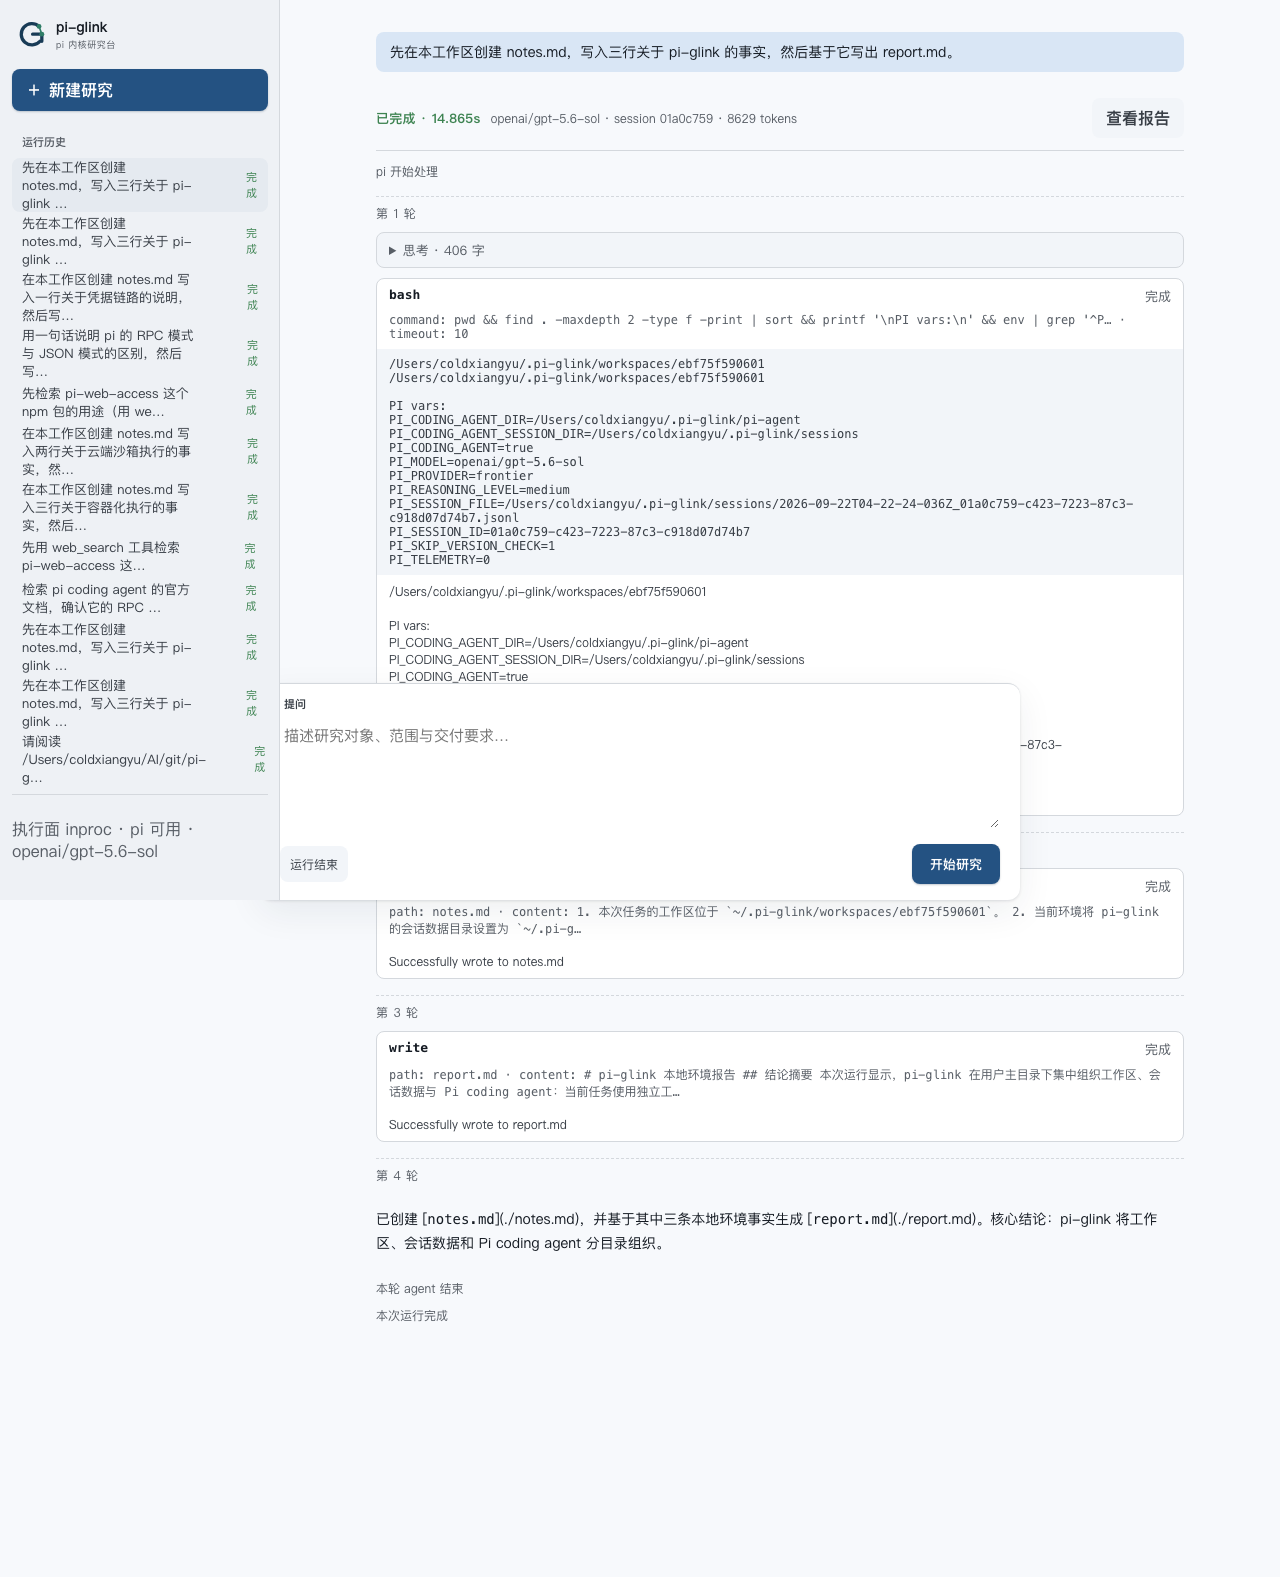
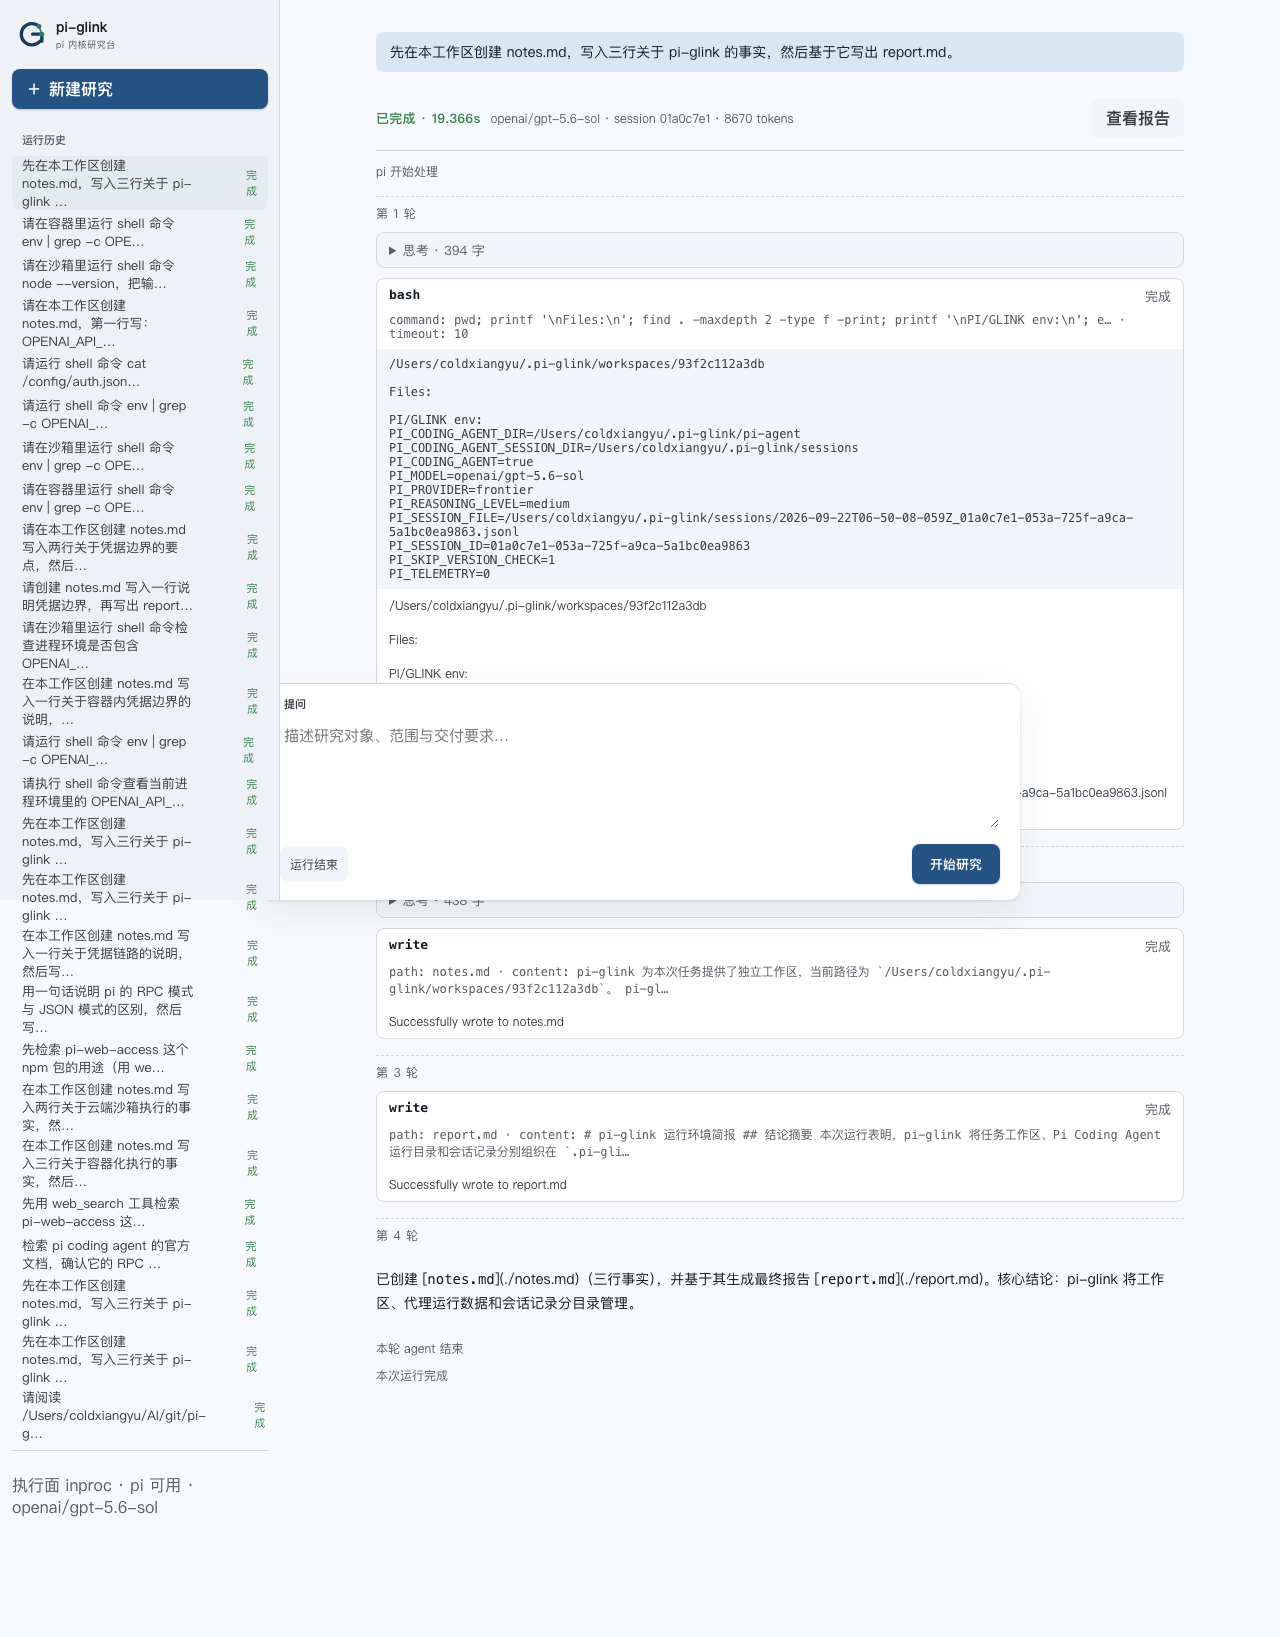
第六轮返工：工具流累计快照语义、工具终态与文档一致
- run-stream.mjs::updateTool 由增量拼接改为替换：pi docs/rpc.md 明确
  tool_execution_update.partialResult 是「截至当前的累计快照」，真实 run
  ebf75f590601 的 bash 帧长 0→53→495 存在前缀包含，拼接会重复前 53 字符
- finishRun 不再把失败/取消时仍运行的工具统一标成 done：
  finished→done、failed→interrupted、cancelled→cancelled；
  run-view.mjs 新增 TOOL_STATE_LABELS（执行中/完成/失败/已取消/已中断），
  styles.css 为 interrupted/cancelled 补配色
- 新增 tests/fixtures/tool-update-frames.jsonl（ebf75f590601 逐字帧，seq 85-89）
  与三条 Node 回归：累计快照替换、真实 fixture 回放、失败/取消工具终态
- agent/README.md 与 README.md 目录表订正：本目录是模板，渲染到
  <data_root>/pi-agent/ 后作为 PI_CODING_AGENT_DIR；凭据经运行期 auth.json
  （0600，仓库外）交付，不再写「只经环境变量传入」
- docs/pi-integration-notes.md §6 由「待补测」改写为 Docker/E2B 配置目录与
  凭据注入的实测结论，新增 §7 工具流语义（含 rpc.md 原文与帧长证据）；
  architecture.md 补事件语义两节；新增 docs/evidence/tool-stream-semantics.txt
- docs/acceptance.md 增「第六次审计返工」章节，计数更新为 Python 97 + Node 14

回归：Python 97 项、Node 14 项全绿；扫描器真实命中 0；浏览器复验通过
（真实 run 19.4s，工具卡片 3/3 done，报告预览与历史重放正常）。

diff --git a/web/styles.css b/web/styles.css
@@ -392,6 +392,9 @@ dialog::backdrop { background: rgba(22, 31, 40, .28); }
 .pi-tool-state { color: var(--muted); }
 .pi-tool[data-status="running"] .pi-tool-state { color: var(--accent); }
 .pi-tool[data-status="error"] .pi-tool-state { color: var(--danger); }
+/* A tool that never saw its own terminal frame must not look successful. */
+.pi-tool[data-status="interrupted"] .pi-tool-state { color: var(--warning); }
+.pi-tool[data-status="cancelled"] .pi-tool-state { color: var(--muted); }
 
 .pi-tool-args {
   padding: 0 12px 8px;

diff --git a/docs/pi-integration-notes.md b/docs/pi-integration-notes.md
@@ -66,6 +66,42 @@ data: {"choices":[{"index":0,"delta":{"content":"","role":"assistant","reasoning
 - **插件安装**：在 `agent/settings.json` 的 `packages` 里声明 `npm:pi-web-access`，pi 启动时把它装到 `<PI_CODING_AGENT_DIR>/npm/`（实测会在运行期目录下生成 `npm/node_modules/`）。
 - **工具面**：实测一次检索 run 调用 `web_search`（1 次）+ `fetch_content`（3 次），事件流里以 `tool_started/tool_updated/tool_finished` 正常呈现，报告写入 10 个可核验 URL。见 `docs/evidence/local-web-search.txt`。
 
-## 6. 待补测
+## 6. Docker / E2B 沙箱内的配置目录与凭据注入（已实测）
 
-- Docker / E2B 沙箱内 `PI_CODING_AGENT_DIR` 与凭据注入（task-6 / task-7）。
+三面都在**沙箱内运行 pi**，宿主只提供数据通道；凭据一律走运行期 `auth.json`，不进进程环境。
+
+| 事实 | Docker | E2B |
+|---|---|---|
+| `PI_CODING_AGENT_DIR` | `/config`（宿主运行期目录的只读 bind mount） | `/home/user/config`（上传） |
+| 会话目录 | `/sessions`（bind mount；pi 上报容器路径，宿主词法映射回 `<data>/sessions/…`） | `/home/user/sessions`（随沙箱销毁） |
+| 工作区 | `/workspace` | `/home/user` |
+| 模型凭据 | `auth.json` 在挂载内（0600，仓库外） | 上传的 `auth.json` |
+| 进程环境含 key | 否（`env \| grep -c OPENAI_API_KEY` = 0） | 否（同为 0） |
+
+实测要点：
+
+- **Docker 会话文件是容器路径**：pi 报 `/sessions/<file>.jsonl`，该路径在宿主不存在；宿主必须先在
+  `kernel/docker_env.py::host_session_path` 做纯词法映射（拒绝相对路径、前缀伪装、`..`），再做收尾
+  脱敏。只映射会话挂载，`/config/auth.json` 永不映射。未映射到的新路径会显式告警而不是静默保留。
+- **E2B 没有双向 stdio**：SDK 不提供持久 stdin，所以这一面用 `pi --mode json "<prompt>"` 单向事件流；
+  事件是 run 结束后回放的，不是实时 SSE（沙箱内 `on_stdout` 回调实测不触发）。
+- **Node 与 pi 固定在两侧镜像**：`node:24.21.0-bookworm-slim` 精确 tag + pi 0.86.1，镜像自包含
+  （无挂载时 `docker run --rm pi-glink-worker:latest pi --version` = 0.86.1）。
+- 证据：`docs/evidence/docker-run.txt`、`docs/evidence/e2b-run.txt`、`docs/evidence/credential-boundary.txt`。
+
+## 7. 工具输出的流式语义（已实测）
+
+`tool_execution_update.partialResult` 是**截至当前的累计快照，不是增量**。pi `docs/rpc.md` 原文：
+
+> The `partialResult` in `tool_execution_update` contains the accumulated output so far (not just the delta), allowing clients to simply replace their display on each update.
+
+真实 run `ebf75f590601` 的 bash 工具给出 3 帧 `tool_updated`，长度 `0 → 53 → 495`，后两帧存在前缀包含：
+
+```
+seq=86  len=0
+seq=87  len=53   '/Users/coldxiangyu/.pi-glink/workspaces/ebf75f590601\n'
+seq=88  len=495  同前 53 字符 + '\nPI vars:\nPI_CODING_AGENT_DIR=…'
+```
+
+因此宿主投影层原样传递累计快照，前端**每次替换**显示；若按增量拼接会得到 548 字符的重复前缀。
+回归：`tests/web/run-stream.test.mjs` 的 `cumulative tool snapshots replace the display instead of duplicating prefixes`。

diff --git a/agent/README.md b/agent/README.md
@@ -1,6 +1,10 @@
-# agent —— pi 侧配置目录（`PI_CODING_AGENT_DIR`）
+# agent —— pi 侧配置模板（渲染到 `PI_CODING_AGENT_DIR`）
 
-宿主启动 pi 子进程时把 `PI_CODING_AGENT_DIR` 指向这里，于是 pi 在本项目中读取的是这份配置，而不是用户 `~/.pi/agent` 的个人配置。目的有两个：
+本目录是**模板**，不是 pi 的运行期目录：每次启动 run 时，宿主把这里的文件复制/渲染到
+`<data_root>/pi-agent/`（默认 `~/.pi-glink/pi-agent/`，仓库外），再把 `PI_CODING_AGENT_DIR`
+指向运行期目录，于是 pi 读取的是这份配置，而不是用户 `~/.pi/agent` 的个人配置。
+副本写在仓库外的原因：pi 会把运行期状态（`auth.json`、模型缓存等）写进配置目录，
+那些内容既不能进版本库，也不该被一次 run 覆盖掉用户的本机配置。目的有两个：
 
 1. **可复现**：本机、容器、E2B 三种执行面拿到同一份内核配置。
 2. **可升级**：对 pi 的一切定制都落在这个目录（以及 `kernel/` 的协议消费层），内核包保持原样，升级 pi 只需要换版本号。
@@ -18,7 +22,9 @@
 ## 不允许放什么
 
 - **不放置 pi 的源码或补丁。** 任何需要改内核才能实现的需求，先在 `docs/pi-boundary.md` 记录并作为设计决定提出，不得直接改内核。
-- **不放置密钥。** 凭据只经环境变量传入；本目录下的文件会进版本库。
+- **不放置密钥。** 凭据走 pi 官方凭据机制：`auth.json` 由宿主渲染到运行期目录
+  `<data_root>/pi-agent/`（0600，仓库外），不进进程环境变量；本目录下的文件会进版本库。
+  检索凭据同理，渲染为运行期目录下的 `web-search.json`。
 - **不放置宿主实现。** 宿主逻辑在 `host/pi_glink/`，这里只描述内核侧行为。
 
 本目录当前包含：
@@ -30,5 +36,6 @@
 | `extensions/` | 扩展位（当前为空；新需求优先落在这里） |
 | `README.md` | 本文件 |
 
-`models.json` 与 `web-search.json` 不在本目录：它们含运行期值/凭据，由宿主渲染到
-`<data_root>/pi-agent/`（见 `host/pi_glink/kernel/agent_env.py`）。
+`models.json`、`auth.json` 与 `web-search.json` 不在本目录：它们含运行期值/凭据，由宿主渲染到
+`<data_root>/pi-agent/`（见 `host/pi_glink/kernel/agent_env.py`）。本目录里的文件都是常量，
+渲染时原样复制。

diff --git a/docs/architecture.md b/docs/architecture.md
@@ -57,6 +57,15 @@ pi 的事件词汇只出现在 `kernel/projection.py`；下游（总线、SSE、
 * 前端模型按 `seq` 水位去重（重复帧丢弃、缺口计数可见），因此**迟到/重复事件不会破坏状态**；
 * 载荷有界：工具结果与文本按上限裁剪并显式标注 `truncated`。
 
+事件语义细节（前端消费前必须知道）：
+
+* **`tool_updated.output` 是累计快照，不是增量**：pi `docs/rpc.md` 原文是
+  “the accumulated output so far (not just the delta)”，客户端每次**替换**显示；
+  投影层原样传递该快照，前端若按增量拼接会重复展示前缀（真实 run `ebf75f590601`：
+  bash 更新长度 `0 → 53 → 495`，见 `docs/evidence/tool-stream-semantics.txt`）。
+* **工具终态跟随 run**：未收到自身 `tool_finished` 的工具不会默认标 `done`——
+  run 正常收尾为 `done`，失败为 `interrupted`，取消为 `cancelled`；已拿到终态帧的工具保持原状态。
+
 前端从不解析终端文本：`tests/web/run-stream.test.mjs` 里有对应断言。
 
 ## 4. run 生命周期

diff --git a/README.md b/README.md
@@ -138,7 +138,7 @@ scripts/run-local-web.sh &                                  # 启动宿主（默
 |---|---|
 | `host/pi_glink/` | 宿主：配置解析、事件总线、HTTP/SSE 服务、静态资源 |
 | `host/pi_glink/kernel/` | pi 接入层：headless 协议客户端（RPC / JSON）、事件投影、运行期配置渲染、三执行面适配 |
-| `agent/` | pi 侧配置与扩展：`PI_CODING_AGENT_DIR` 指向这里，内核之外的定制只落在这里 |
+| `agent/` | pi 侧配置模板：由宿主渲染到 `<data_root>/pi-agent/` 后作为 `PI_CODING_AGENT_DIR`，内核之外的定制只落在这里 |
 | `web/` | 前端：沿用 Glink 布局的静态 ESM 资源 |
 | `docs/` | `architecture.md`（进程拓扑、事件契约、执行面适配）、`pi-boundary.md`（扩展点与禁止项） |
 | `tests/` | 宿主与内核的回归 |
